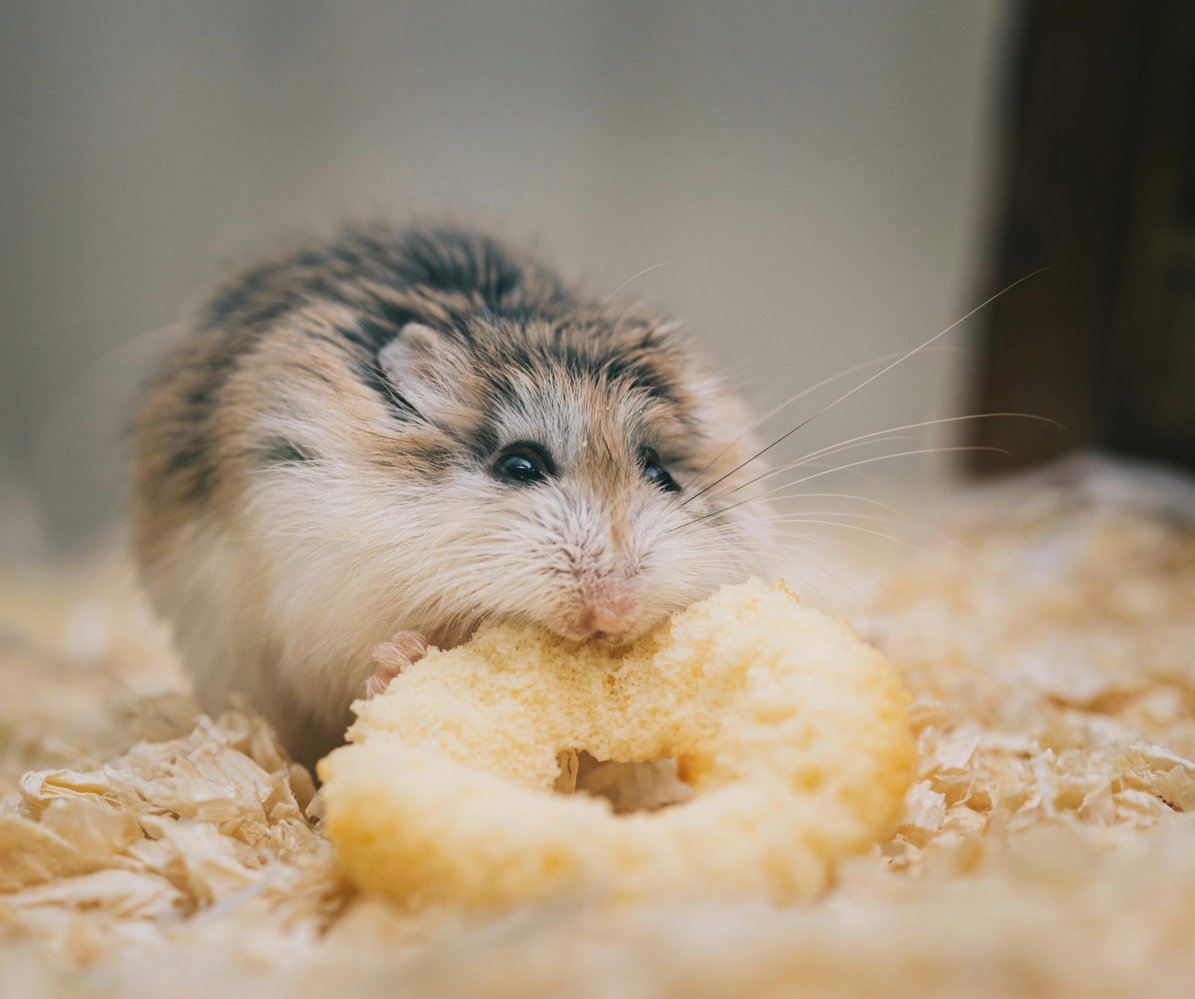
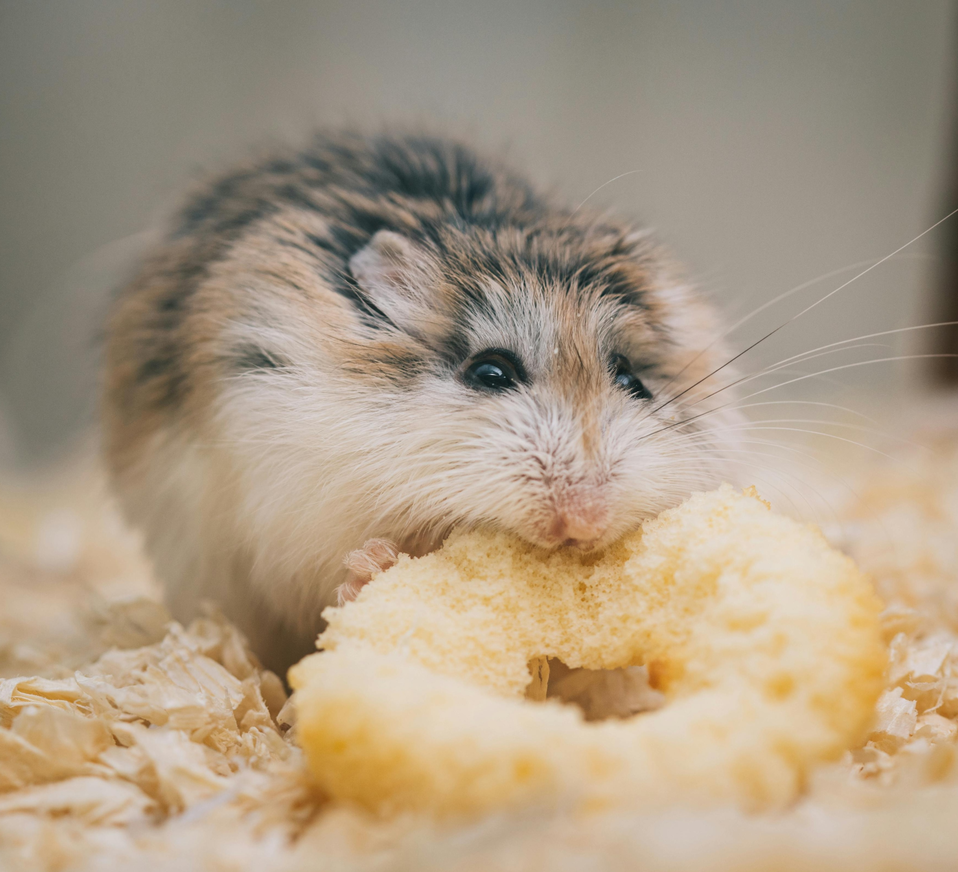
changed photos, updated navbar, updated footer links

diff --git a/app/assets/stylesheets/components/_navbar.scss b/app/assets/stylesheets/components/_navbar.scss
@@ -2,6 +2,9 @@
   justify-content: space-between;
   background: $pawsitive-orange;
   color: white;
+  position: sticky;
+  top: 0;
+  z-index: 999999;
 }
 
 .navbar-lewagon .navbar-collapse {
@@ -13,7 +16,14 @@
 }
 
 .navbar-brand {
-  font-family: 'Salsa', cursive;
+  font-family: 'Salsa';
   font-weight: bold;
+  display: grid;
+  grid-template-columns: 1fr 1fr;
+  grid-gap: 15px;
+  align-items: center;
+}
 
+.nav-link:hover {
+  border-bottom: 1px solid white;
 }

diff --git a/app/assets/stylesheets/config/_colors.scss b/app/assets/stylesheets/config/_colors.scss
@@ -5,7 +5,7 @@ $pawsitive-light-brown-white: #E0CFCE;
 $pawsitive-light-brown-gray: #907B79;
 $pawsitive-blue: #3D94FF;
 $pawsitive-purple: #6C55ED;
-$pawsitive-orange: #FFA31F;
+$pawsitive-orange: #fcb045;
 $dark-brown: rgb(47, 24, 5);
 $red: #FD1015;
 $blue: #0D6EFD;

diff --git a/app/assets/stylesheets/components/_footer.scss b/app/assets/stylesheets/components/_footer.scss
@@ -35,4 +35,5 @@
 
 .footer-icon:hover {
   color: rgb(113, 113, 112);
+  transition-duration: 0.3s;
 }

diff --git a/db/seeds.rb b/db/seeds.rb
@@ -118,7 +118,7 @@ mike = Pet.create!(
   description: "He is a typical bull dog. Always having fun playing with balls.",
   price_per_day: 6000,
 )
-file = File.open(Rails.root.join("app/assets/images/pets/Mike.jpg"))
+file = File.open(Rails.root.join("app/assets/images/pets/Mike.jpeg"))
 mike.photo.attach(io: file, filename: "nes.jpeg", content_type: "image/jpeg")
 
 hanako = Pet.create!(
@@ -255,7 +255,7 @@ gary = Pet.create!(
   lister: doug,
   name: "Gary",
   gender: "M",
-  species: "Giant African Snail",
+  species: "Snail",
   life_stage: "Youth",
   size: "Small",
   description: "Gary likes natural light, fresh vegetables and warmth. All materials except food are provided in his terranium.",

diff --git a/app/controllers/pets_controller.rb b/app/controllers/pets_controller.rb
@@ -1,4 +1,5 @@
 class PetsController < ApplicationController
+  skip_before_action :authenticate_user!, only: [ :index, :show]
   def index
     @pets = Pet.all
   end
